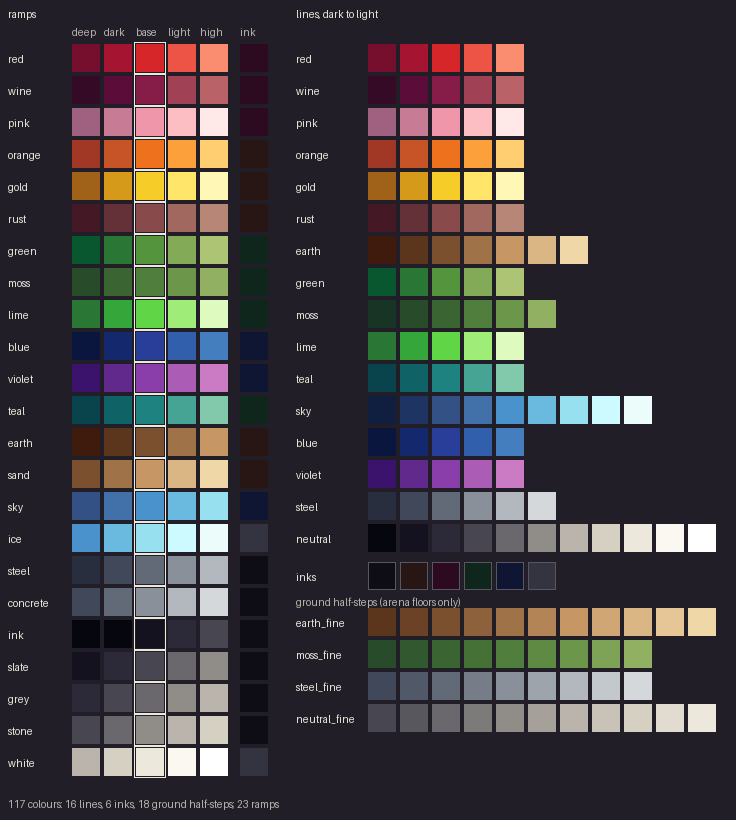
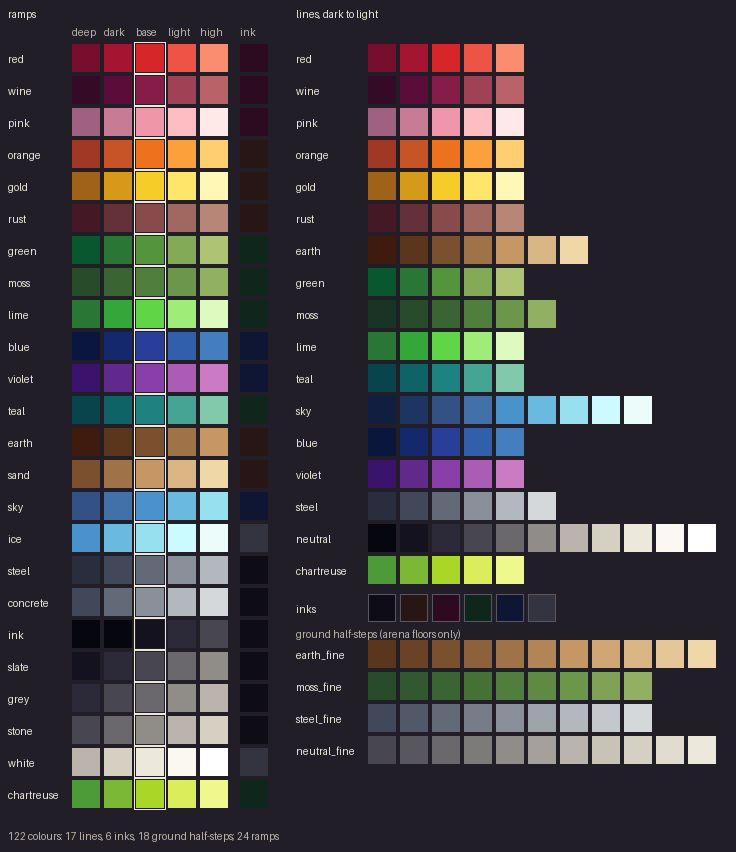
Gillbert: master palette ramps and the splat3d shading look
Gillbert's painter shades through tools/shade2d.py like Barkley's: body
"chartreuse", fins ("moss", -1), the life ring "red" / "white" / "rust"
straps lit as one round band, rod "rust" with a ("red", -1) handle, reel
"stone", eyes "orange". Scale chevrons and fin rays step one ramp step
darker where they fall, the belly one step lighter; the reel's and the
split body's outlines become seams where they cross a piece behind.

palette.py: a new "chartreuse" line and ramp, appended at the end of
LINES and WINDOWS (lime's base is grass green and turned his yellow-green
skin minty); docs/palette.png redrawn.

diff --git a/tools/gen_gillbert.py b/tools/gen_gillbert.py
@@ -46,39 +46,40 @@ VIEWS = {
     "up_side": {"w": 128, "h": 144, "origin": (64, 84)},  # the rod trails down-left
 }
 
-# Palette, sampled from the character sheet.
-C = {
-    "outline": (22, 26, 18, 255),
-    "body": (181, 230, 29, 255),
-    "body_l": (214, 246, 96, 255),
-    "body_d": (134, 184, 22, 255),
-    "belly": (220, 240, 120, 255),
-    "scale": (96, 136, 20, 255),
-    "fin": (18, 92, 39, 255),
-    "fin_l": (40, 132, 60, 255),
-    "fin_d": (10, 62, 26, 255),
-    "red": (237, 28, 36, 255),
-    "red_l": (255, 96, 96, 255),
-    "red_d": (168, 14, 24, 255),
-    "white": (246, 246, 246, 255),
-    "white_l": (255, 255, 255, 255),
-    "white_d": (196, 200, 206, 255),
-    "strap": (119, 67, 66, 255),
-    "rod": (119, 67, 66, 255),
-    "rod_l": (156, 98, 92, 255),
-    "rod_d": (84, 46, 46, 255),
-    "handle": (136, 0, 21, 255),
-    "handle_l": (186, 40, 52, 255),
-    "handle_d": (96, 0, 14, 255),
-    "reel": (127, 127, 127, 255),
-    "reel_l": (184, 184, 184, 255),
-    "reel_d": (88, 88, 88, 255),
-    "line": (150, 150, 150, 255),
-    "eye": (255, 127, 39, 255),
-    "eye_d": (206, 84, 16, 255),
-    "pupil": (14, 10, 8, 255),
-    "mouth": (70, 90, 20, 255),
+# Palette: master-palette ramps per material (tools/palette.py; the shading rules are in
+# tools/shade2d.py). The artist's sheet sets the hues: a bright lime body with dark green
+# fins, the red-and-white life ring, a brown rod with a wine-red handle and a grey reel,
+# orange eyes.
+sys.path.insert(0, os.path.dirname(os.path.abspath(__file__)))
+import shade2d  # noqa: E402
+
+MAT = {
+    "body": "chartreuse",
+    "fin": ("moss", -1),
+    "red": "red",           # the ring's red quarters
+    "white": "white",       # ... and its white ones
+    "strap": "rust",        # the ring's straps
+    "rod": "rust",
+    "handle": ("red", -1),  # crimson: the red line one step down
+    "reel": "stone",
+    "eye": "orange",
+    "pupil": "ink",
 }
+M = shade2d.Materials(MAT)
+
+C = {name: M.col(name) for name in MAT}   # shape fills (shade() recolours them)
+C.update({
+    "ink": M.ink["body"] + (255,),      # eye rims, the mouth, the barbels
+    "seam": M.seam["body"] + (255,),    # the gill line
+    "red_d": M.col("red", 1),           # the gill flush
+    "eye": M.col("eye", 3),
+    "eye_d": M.col("eye", 2),
+    "pupil": M.col("pupil", 1),
+    "mouth": M.col("body", 0),
+    "line": M.col("reel", 3),           # fishing line
+    "guide": M.col("white", 3),         # the rod's line guides
+    "groove": (255, 0, 255, 255),       # detail lines: one ramp step darker where they fall
+})
 
 # ------------------------------------------------------------------ image helpers
 
@@ -101,25 +102,33 @@ def _shift(m, dx, dy):
     return p[4 + dy:4 + dy + h, 4 + dx:4 + dx + w]
 
 
-def shade(img, base, light, dark):
-    """Recolors a filled shape: lit from the top left, shadowed on the bottom right."""
-    a = np.array(img)
-    m = a[:, :, 3] > 0
-    out = np.zeros_like(a)
-    out[m] = C[base]
-    dk = m & (~_shift(m, 1, 1) | ~_shift(m, 0, 2) | ~_shift(m, 1, 2))
-    out[dk] = C[dark]
-    hl = m & (~_shift(m, -1, -1) | ~_shift(m, 0, -1)) & ~dk
-    out[hl] = C[light]
-    return Image.fromarray(out)
+def shade(img, name, by_colour=()):
+    """Ramp-shades a filled shape from the master palette (shade2d: lit from the top left,
+    a hard terminator, the core shadow, a rim light on the far edge). `by_colour` names
+    other materials whose fill colour marks parts of the shape (the ring's bands)."""
+    labels = None
+    if by_colour:
+        a = np.array(img)
+        labels = np.zeros(a.shape[:2], np.int16)
+        for other in by_colour:
+            labels[np.all(a[:, :, :3] == C[other][:3], axis=2) & (a[:, :, 3] > 0)] = M.id[other]
+    return M.shade(img, name, labels=labels)
 
 
-def outline(img, color="outline"):
+def outline(img):
+    """A 1 px line round the shape in its material's own ink."""
+    return M.outline(img)
+
+
+def masked(img, keep_mask):
+    """The part of a layer inside keep_mask, its material tags kept."""
     a = np.array(img)
-    m = a[:, :, 3] > 0
-    ring = (_shift(m, 1, 0) | _shift(m, -1, 0) | _shift(m, 0, 1) | _shift(m, 0, -1)) & ~m
-    a[ring] = C[color]
-    return Image.fromarray(a)
+    a[~keep_mask] = 0
+    out = Image.fromarray(a)
+    shade2d.keep(out, img)
+    if "ring" in out.info:
+        out.info["ring"] &= keep_mask
+    return out
 
 
 def clip_to(detail, shape):
@@ -393,7 +402,11 @@ class Painter:
             u = -1.0 + 2.0 * k / n
             pts = [self.P(self.f.surface(u, a)) for a in range(0, 360, 20)]
             d.polygon(pts, fill=C["body"])
-        img = shade(img, "body", "body_l", "body_d")
+        img = shade(img, "body")
+        belly = layer()  # a step lighter wherever it falls
+        bd = ImageDraw.Draw(belly)
+        scales = layer()  # a step darker wherever they fall
+        sd = ImageDraw.Draw(scales)
         det = layer()
         dd = ImageDraw.Draw(det)
         # pale belly
@@ -402,7 +415,7 @@ class Painter:
             for a in (150, 180, 210):
                 if self.facing(self.f.normal(u, a)) > -0.2:
                     q = self.P(self.f.surface(u, a, out=-0.6))
-                    dd.point((round(q[0]), round(q[1])), fill=C["belly"])
+                    bd.point((round(q[0]), round(q[1])), fill=C["groove"])
         # scale chevrons along the flank facing us
         for side in (90, -90):
             if self.facing(self.f.normal(0.0, side)) < 0.15:
@@ -412,11 +425,11 @@ class Painter:
                     tip = self.P(self.f.surface(u, a0 + (8 if side > 0 else -8)))
                     a = self.P(self.f.surface(u + 0.07, a0 - 12))
                     b = self.P(self.f.surface(u + 0.07, a0 + 28))
-                    dd.line([a, tip, b], fill=C["scale"])
+                    sd.line([a, tip, b], fill=C["groove"])
             # gill line, just behind the head
             g0 = self.P(self.f.surface(0.62 - self.p.gill * 0.05, side - 50))
             g1 = self.P(self.f.surface(0.58 - self.p.gill * 0.05, side + 35))
-            dd.line([g0, g1], fill=C["outline"])
+            dd.line([g0, g1], fill=C["seam"])
             if self.p.gill > 0.3:
                 dd.line([(g0[0] - 1, g0[1]), (g1[0] - 1, g1[1])], fill=C["red_d"])
         # the line tangled round his body (front half of each loop)
@@ -433,6 +446,8 @@ class Painter:
                     pts = []
             if len(pts) > 1:
                 dd.line(pts, fill=C["line"])
+        M.groove(img, belly, 1)
+        M.groove(img, scales, -1)
         img.alpha_composite(clip_to(det, img))
         img = outline(img)
         self._face(img)
@@ -440,7 +455,7 @@ class Painter:
 
     def _face(self, img):
         dd = ImageDraw.Draw(img)
-        o = C["outline"]
+        o = C["ink"]
         f = self.p.face
         for side in (78, -78):
             # head-on, his bulging eyes still show at the sides of his head
@@ -482,21 +497,21 @@ class Painter:
             base = v_add(c, v_mul(side, s * 1.2))
             mid = v_add(base, v_add(v_mul(t, 5.0), v_add(v_mul(upv, 1.5), v_mul(side, s * 2.0))))
             tip = v_add(mid, v_add(v_mul(t, 5.0), v_add(v_mul(upv, -1.0 + s * 1.5), v_mul(side, s * 2.0))))
-            d.line([self.P(base), self.P(mid), self.P(tip)], fill=C["outline"], width=1)
+            d.line([self.P(base), self.P(mid), self.P(tip)], fill=C["ink"], width=1)
         return img
 
     # -- fins
-    def _fin_poly(self, pts3, base="fin", light="fin_l", dark="fin_d"):
+    def _fin_poly(self, pts3, base="fin"):
         img = layer()
         ImageDraw.Draw(img).polygon([self.P(q) for q in pts3], fill=C[base])
-        img = shade(img, base, light, dark)
+        img = shade(img, base)
         det = layer()
         dd = ImageDraw.Draw(det)
-        # rays: lines from the base toward the edge
+        # rays: lines from the base toward the edge, a step darker
         n = len(pts3)
         for k in range(1, n - 1):
-            dd.line([self.P(pts3[0]), self.P(pts3[k])], fill=C[dark])
-        img.alpha_composite(clip_to(det, img))
+            dd.line([self.P(pts3[0]), self.P(pts3[k])], fill=C["groove"])
+        M.groove(img, det)
         return outline(img)
 
     def tail(self):
@@ -582,19 +597,8 @@ class Painter:
             if not _mask(h).any():
                 out.append(None)
                 continue
-            # shade each colour band separately, keeping its colour
-            a = np.array(h)
-            res = np.zeros_like(a)
-            for base, li, dk in (("white", "white_l", "white_d"), ("red", "red_l", "red_d"),
-                                 ("strap", "rod_l", "rod_d")):
-                m = np.all(a[:, :, :3] == C[base][:3], axis=2) & (a[:, :, 3] > 0)
-                if not m.any():
-                    continue
-                sub = np.zeros_like(a)
-                sub[m] = C[base]
-                sh = np.array(shade(Image.fromarray(sub), base, li, dk))
-                res[m] = sh[m]
-            out.append(outline(Image.fromarray(res)))
+            # light the half as one round band, each colour band from its own ramp
+            out.append(outline(shade(h, "white", by_colour=("red", "strap"))))
         return out, cd
 
     # -- rod and line
@@ -606,29 +610,19 @@ class Painter:
         capsule(d, pb, pt, 1.6, 0.8, "rod")
         h1 = v_add(butt, v_mul(dvec, 8.0))
         capsule(d, pb, self.P(h1), 2.1, 1.8, "handle")
-        img = shade(img, "rod", "rod_l", "rod_d")
-        # recolour the handle end
-        a = np.array(img)
-        hm = layer()
-        capsule(ImageDraw.Draw(hm), pb, self.P(h1), 2.1, 1.8, "handle")
-        hm = shade(hm, "handle", "handle_l", "handle_d")
-        hma = np.array(hm)
-        m = hma[:, :, 3] > 0
-        a[m] = hma[m]
-        img = Image.fromarray(a)
+        img = shade(img, "rod", by_colour=("handle",))  # the handle end from its own ramp
         dd = ImageDraw.Draw(img)
         # line guides: small white loops along the rod
         for k in (0.45, 0.6, 0.75, 0.9):
             q = self.P(v_add(butt, v_mul(dvec, 36.0 * k)))
-            dd.point((round(q[0]), round(q[1]) - 1), fill=C["white"])
+            dd.point((round(q[0]), round(q[1]) - 1), fill=C["guide"])
         img = outline(img)
         # the reel: a grey disc beside the handle
         r = self.P(v_add(v_add(butt, v_mul(dvec, 9.5)), (0.0, 2.2, 0.0)))
         reel = layer()
         disc(ImageDraw.Draw(reel), r, 2.6, "reel")
-        reel = outline(shade(reel, "reel", "reel_l", "reel_d"))
-        img.alpha_composite(reel)
-        return img, self.D(v_lerp(butt, tip, 0.5))
+        reel = outline(shade(reel, "reel"))
+        return M.stack([img, reel]), self.D(v_lerp(butt, tip, 0.5))
 
     def line(self):
         """The fishing line from his mouth to the rod's tip, hanging slack."""
@@ -696,45 +690,34 @@ class Painter:
             # all of him and its near half crosses his flank; the end of him nearer the
             # camera (the head facing down-side, the tail facing up-side) goes over it.
             front = self._part_mask(RING_U, 1.0)
-            a = np.array(body)
-            head = a.copy()
-            head[~front] = 0
-            rest = a.copy()
-            rest[front] = 0
             head_d = self.D(self.f.frame(0.6)[0])
             tail_d = self.D(self.f.frame(-0.4)[0])
+            head, rest = masked(body, front), masked(body, ~front)
             near, far = (head, rest) if head_d >= tail_d else (rest, head)
             if rings[0] is not None:
                 parts.append((body_d - 0.05, 3, rings[0]))
-            parts.append((body_d, 4, Image.fromarray(far)))
+            parts.append((body_d, 4, far))
             if rings[1] is not None:
                 parts.append((body_d + 0.05, 6, rings[1]))
-            parts.append((body_d + 0.07, 6, Image.fromarray(near)))
+            parts.append((body_d + 0.07, 6, near))
             body_d = max(head_d, body_d)  # the barbels come off the snout
         else:
             # Seen head-on or from behind, he passes through the ring: the end of him
             # nearer the camera goes over it, the far end under it, so he is always in it.
             whole = [r for r in rings if r is not None]
-            ring_img = layer()
-            for r in whole:
-                ring_img.alpha_composite(r)
+            ring_img = M.stack(whole) if whole else layer()
             front = self._part_mask(RING_U, 1.0)
-            a = np.array(body)
-            head = a.copy()
-            head[~front] = 0
-            rest = a.copy()
-            rest[front] = 0
             head_d = self.D(self.f.frame(0.6)[0])
             tail_d = self.D(self.f.frame(-0.4)[0])
-            parts.append((tail_d, 4, Image.fromarray(rest)))
+            head, rest = masked(body, front), masked(body, ~front)
+            parts.append((tail_d, 4, rest))
             parts.append((ring_d, 6, ring_img))
-            parts.append((head_d, 4, Image.fromarray(head)))
+            parts.append((head_d, 4, head))
             body_d = head_d  # the barbels come off the snout
         parts.append((body_d + 0.1, 7, self.barbels()))
-        img = layer()
-        for _d, _o, lay in sorted(parts, key=lambda t: (t[0], t[1])):
-            img.alpha_composite(lay)
-        return img
+        # back to front; an outline that lands on a piece behind becomes its seam
+        layers = [lay for _d, _o, lay in sorted(parts, key=lambda t: (t[0], t[1]))]
+        return M.stack(layers)
 
 
 # ------------------------------------------------------------------ animations

diff --git a/tools/palette.py b/tools/palette.py
@@ -78,6 +78,9 @@ LINES = {
     "neutral": [(6, 6, 14), (20, 18, 30), (44, 42, 56), (72, 70, 80), (106, 104, 108),
                 (144, 140, 136), (186, 180, 172), (214, 208, 194), (236, 232, 220),
                 (250, 248, 240), (255, 255, 255)],
+    # yellow-green between lime and gold (Gillbert's body), built by the rules above from
+    # (170, 214, 40); the highlight is pulled back so it doesn't burn out
+    "chartreuse": [(76, 154, 56), (122, 184, 54), (170, 214, 40), (219, 237, 91), (238, 248, 140)],
 }
 
 # Ramps: name -> (line, index of the deep step). The window is five steps from there; a
@@ -97,6 +100,7 @@ WINDOWS = {
     "grey": ("neutral", 2),     # concrete, stone
     "stone": ("neutral", 3),    # steel, light stone
     "white": ("neutral", 6),    # paper, white cloth, teeth
+    "chartreuse": ("chartreuse", 0),  # bright yellow-green skin (Gillbert)
 }
 
 # Outline inks: the deepest, greyest colours, one per hue region.
